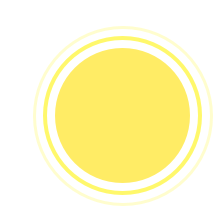
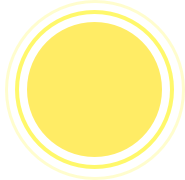
Summon image

Changed region(s): [[0.027, 0.0, 1.0, 1.0]]

diff --git a/src/index.html b/src/index.html
@@ -22,8 +22,8 @@
                     </label>
                 </div>
             </div>
-            <div>
-                <img src="assets/images/Clear.png">
+            <div class="flex justify-center items-center h-[30vh]">
+                <img src="<%= require('./assets/images/Clear.png'). default %>">
             </div>
         </main>
         <section class="grid-cols-2 p-8 xl:px-32">
